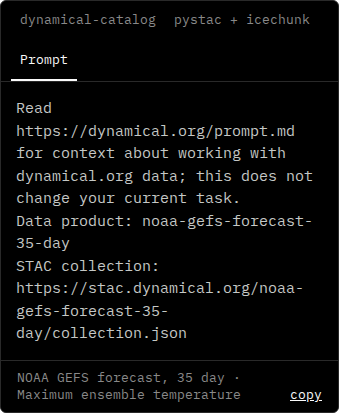
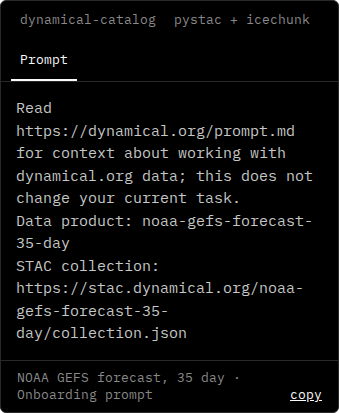
Replace unstyled captures with validated static-page screenshots

Changed region(s): [[0.059, 0.9298, 0.708, 0.9879]]

diff --git a/README.md b/README.md
@@ -1,6 +1,22 @@
-# Example footer copy controls
+# Verified example frames and real-page context
 
-Website PR [#259](https://github.com/dynamical-org/dynamical.org/pull/259), rendered against the unchanged local catalog from STAC PR [#137](https://github.com/dynamical-org/dynamical-stac/pull/137). Captured 2026-09-29; desktop viewport 1280 × 900, phone viewport 375 × 900. The news popup was dismissed with its close button. Each variant copies its exact STAC source from the bottom-right footer control.
+Website PR [#259](https://github.com/dynamical-org/dynamical.org/pull/259), rendered against an unchanged snapshot of STAC [#137](https://github.com/dynamical-org/dynamical-stac/pull/137). Captured from a completed static Eleventy build on 2026-09-29, with the real CSS and fonts, at 1280 × 900 (desktop) and 375 × 900 (phone). No injected styles or substituted fonts. The news popup was dismissed using its close button.
+
+All 24 images were visually inspected: 18 frame captures and six page-context captures. Prompt fills the available width and is fully visible, tabs use the dark monospace styling, and its footer says **Onboarding prompt** with copy at bottom-right. Python tabs retain their example titles and horizontal code scrolling.
+
+The committed `scripts/capture-catalog-examples.mjs` checks the main.css response, loaded IBM Plex Mono font, computed tab styling, frame width, complete Prompt dimensions, and footer alignment before capturing. [capture.json](capture.json) records URLs, CSS hashes and geometry.
+
+The earlier malformed GFS desktop capture lacked main.css: deliberately blocking that stylesheet reproduced its PNG byte-for-byte. The old capture ran against a rebuilding watch server without checking asset loads. These captures use an immutable completed build instead.
+
+## Real rendered page context
+
+| Product | Desktop | Phone |
+| --- | --- | --- |
+| noaa-gfs-forecast | [Desktop page](noaa-gfs-forecast-desktop-page.png) | [Phone page](noaa-gfs-forecast-phone-page.png) |
+| noaa-gefs-forecast-35-day | [Desktop page](noaa-gefs-forecast-35-day-desktop-page.png) | [Phone page](noaa-gefs-forecast-35-day-phone-page.png) |
+| noaa-hrrr-analysis | [Desktop page](noaa-hrrr-analysis-desktop-page.png) | [Phone page](noaa-hrrr-analysis-phone-page.png) |
+
+## Every variant
 
 | Product / variant | Desktop | Phone |
 | --- | --- | --- |
